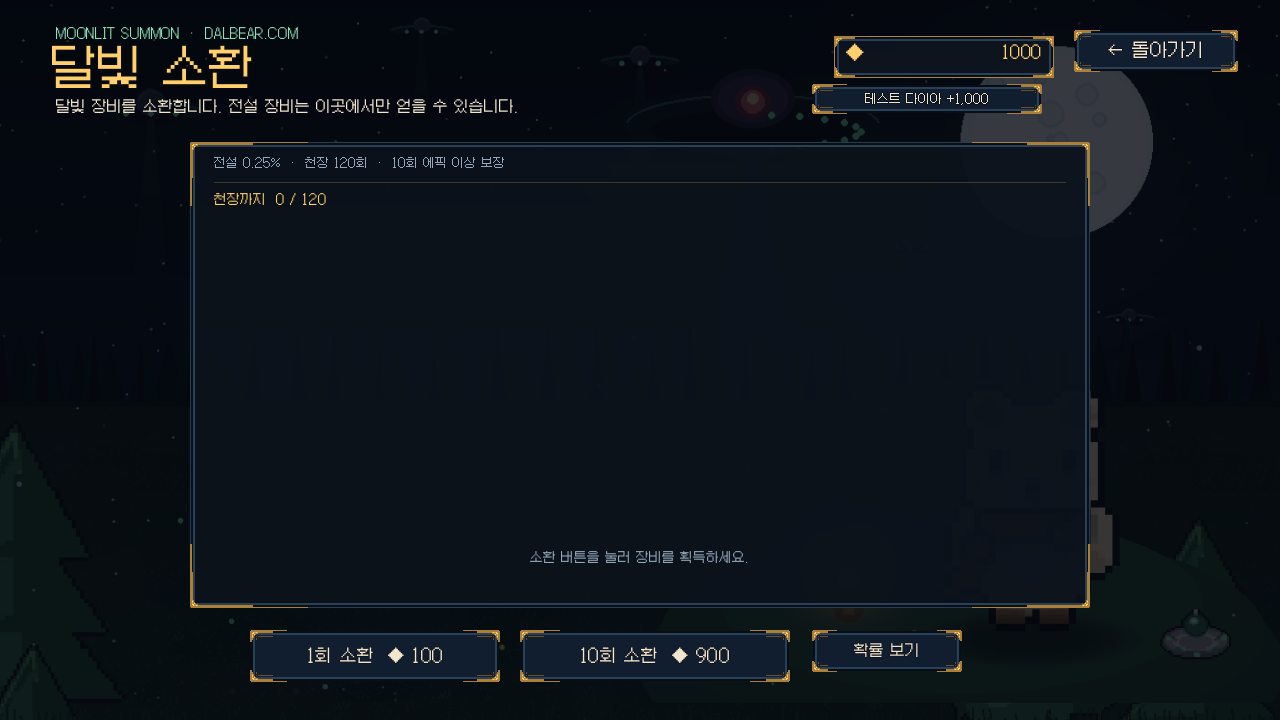
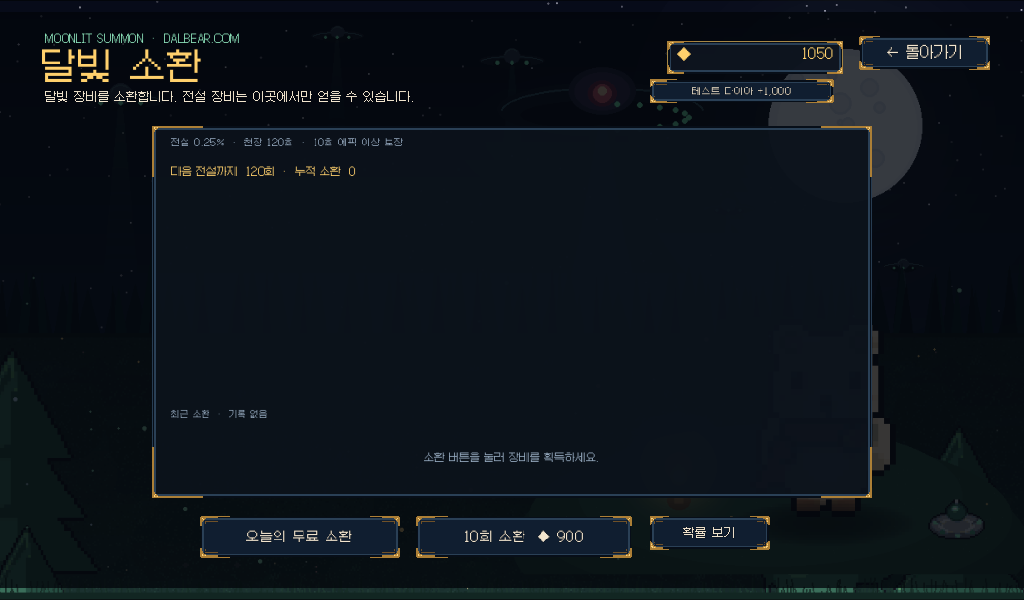
feat: complete gacha rewards, legendary effects and inventory filters (v1.22.0)

diff --git a/README.md b/README.md
@@ -286,6 +286,24 @@ godot --headless --path . --export-debug "Android" build/DALBEAR.apk
 | 잿불 사냥 (잿불) | 피해 +8% | 공격 대기 -6% |
 | 그림자 춤 (그림자) | 이동 속도 +5% | 치명타 +10% |
 
+### 달빛 소환
+전선 선택의 **달빛 소환**에서 다이아로 장비를 뽑습니다. 전설 장비 10종은 소환에서만 획득할 수 있습니다.
+
+| 구분 | 확률·규칙 |
+|---|---|
+| 전설 | 0.25% · 120회 천장 |
+| 에픽 | 4.75% |
+| 희귀 | 25.00% |
+| 일반 | 70.00% |
+| 10회 소환 | 에픽 이상 1개 보장 · 900 다이아 |
+| 1회 소환 | 100 다이아 · 매일 첫 1회 무료 |
+
+- 중복 장비는 보유 중인 같은 부위·등급 장비와 비교해 **달빛 조각**으로 자동 변환됩니다. 전설 중복은 600조각, 에픽 150조각, 희귀 60조각, 일반 25조각입니다.
+- 전설 장비에는 **고유 효과**가 붙습니다. 황혼의 왕관·심연의 망토는 부활 1회, 월식을 삼킨 장갑은 런 시작 리롤 +1, 성운의 흉갑은 궁극기 50% 충전 상태로 시작합니다.
+- **7일 출석 보상**, 일일 전선 첫 클리어, 주간 보스 처치, 업적 달성으로 다이아를 얻습니다. 출석 보상은 1일차 50 다이아부터 7일차 350 다이아까지 늘어납니다.
+- 현재 빌드는 테스트 다이아(`+1,000`) 버튼을 제공합니다. 실제 Google Play 결제 연동은 상품 ID가 준비된 뒤 별도 버전에서 연결합니다.
+- 인벤토리의 **가챠** 필터와 **NEW** 표시로 새로 얻은 장비를 바로 확인할 수 있습니다.
+
 ---
 
 ## 성장과 전투
